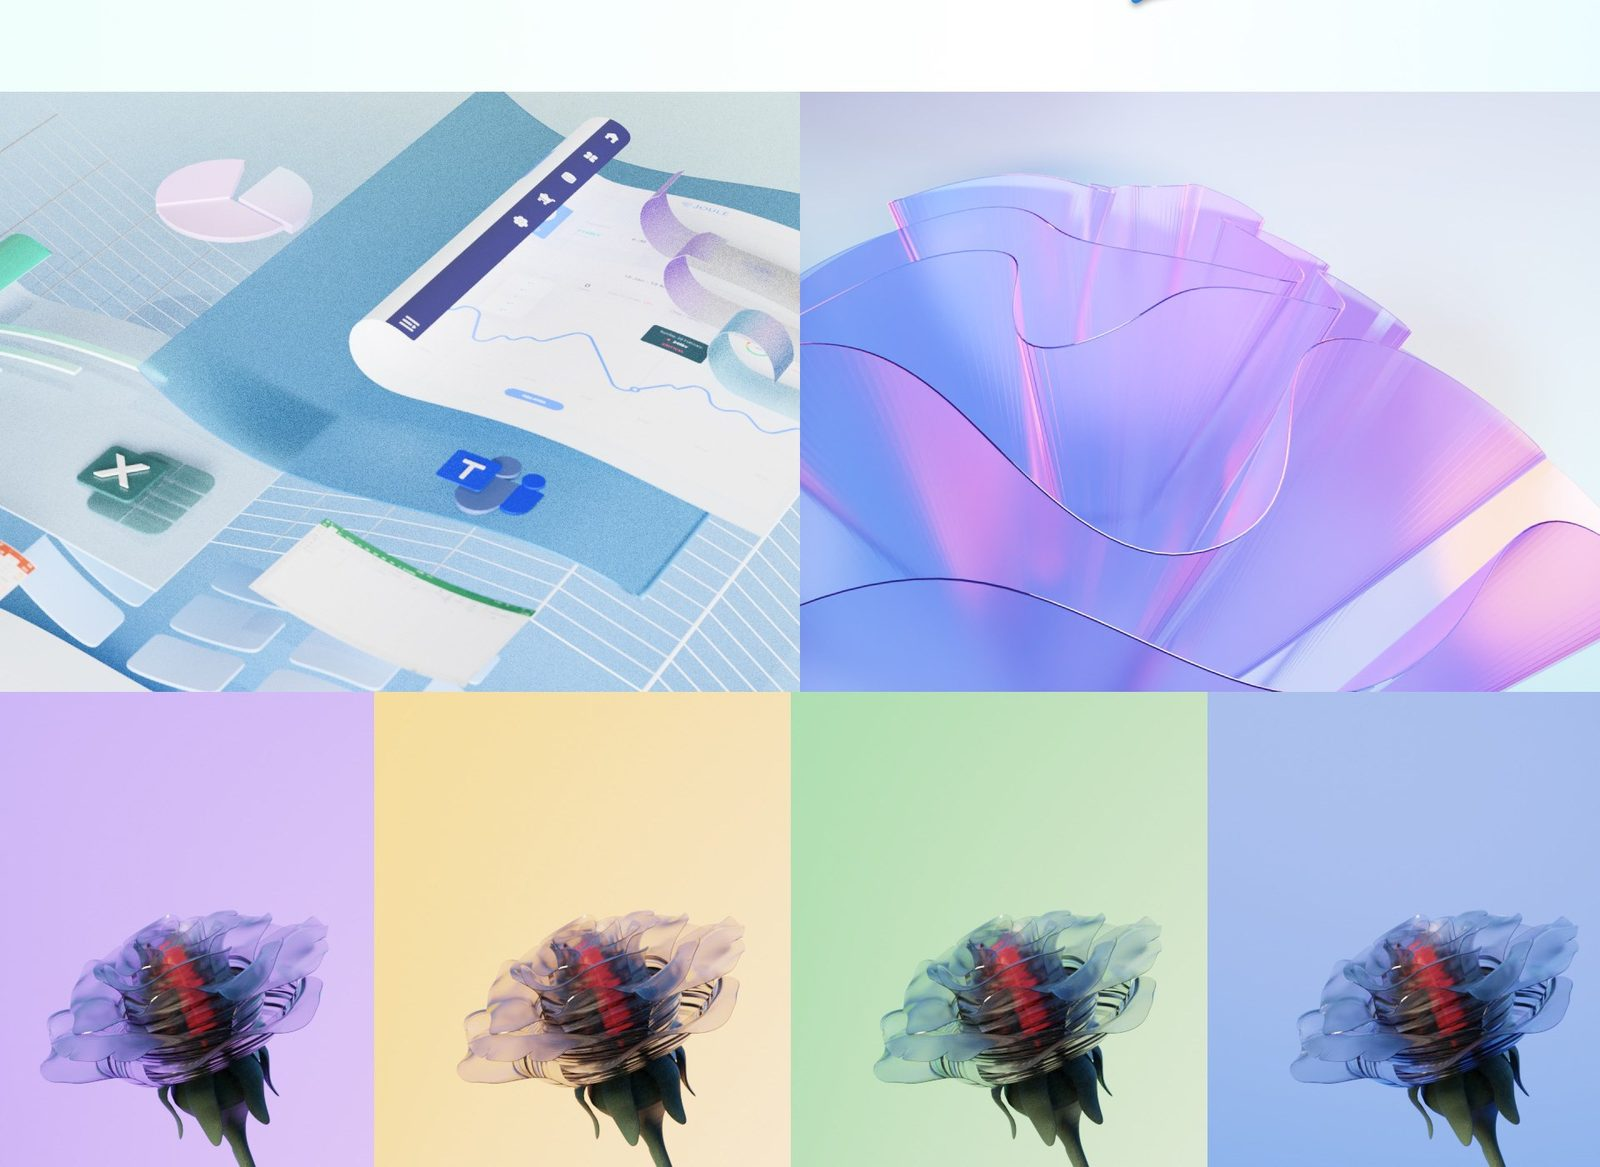
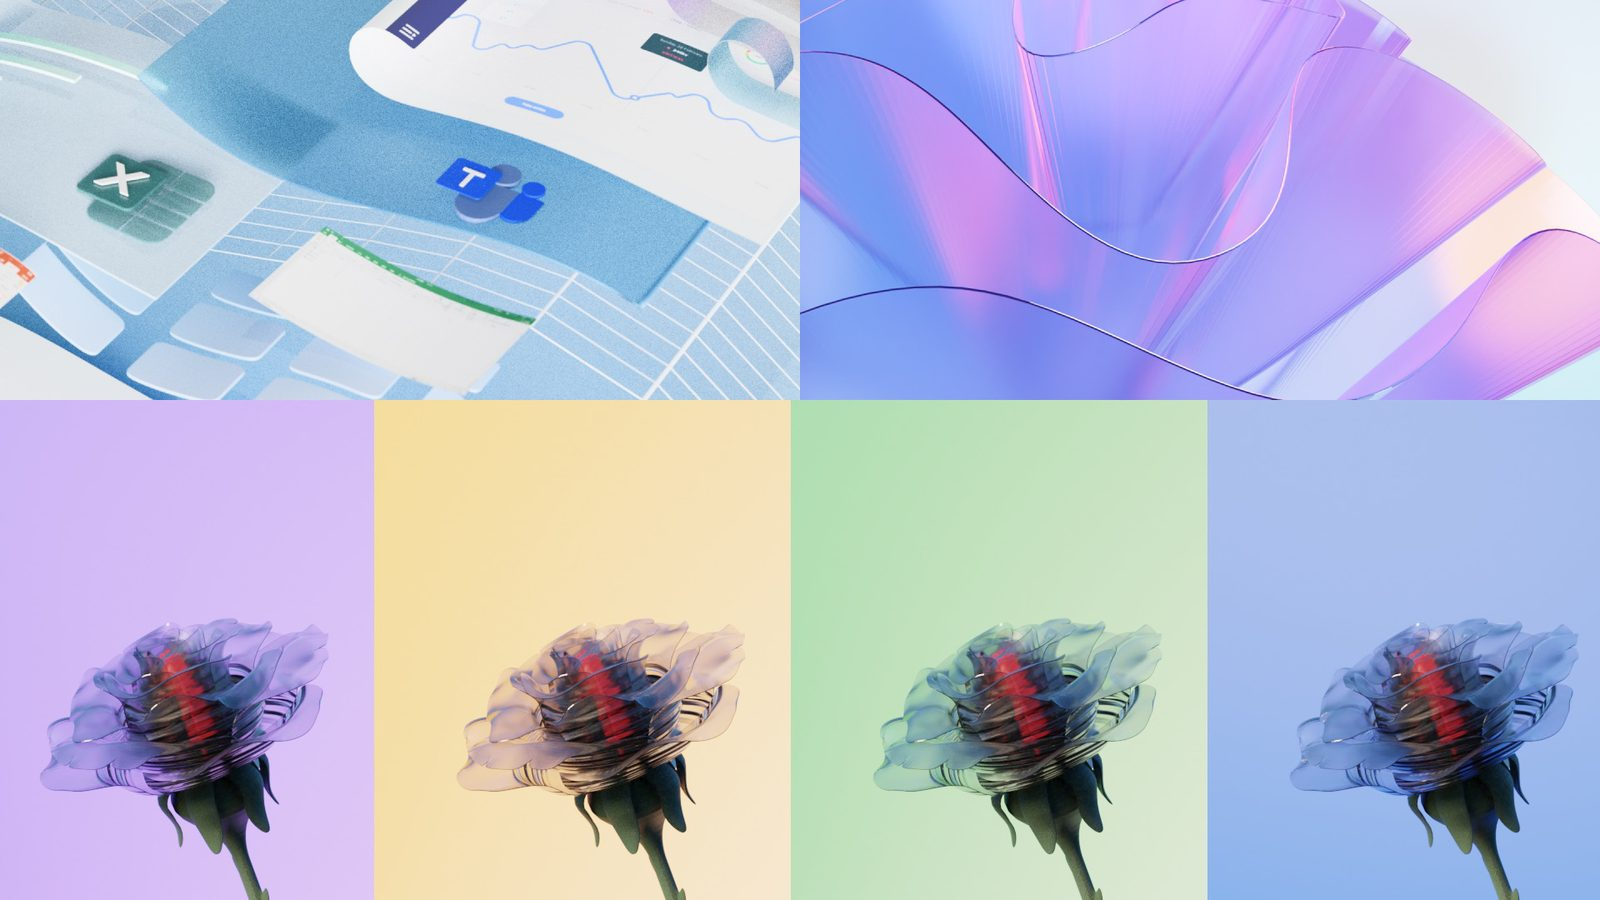
fix: 修正作品卡片裁切导致文字被截断
问题：卡片框是 3:2（1.5），而源图是 1920×1080 的 UI 截图（16:9 = 1.778）。
object-fit: cover 会把宽出的部分左右各裁掉约 9%，正好切在文字上——
设计系统卡片的 "Magic Design System 1.0" 变成了 "agic Design / ystem"，
"magiclab" 变成 "agiclab"。

修复
- .card__media 比例由 3/2 改为 16/9，与源图完全一致，不再产生任何裁切
- 重新裁切三张非 16:9 的卡片图，使六张统一为 1600×900：
  - work-agibot.jpg：取完整手机 + 引语 + #Overview 的 16:9 窗口
  - explore-3d.jpg：改为保留完整花束的窗口
  - work-lenovo.jpg：精确到 16:9

验证：六张卡片 boxRatio 与 imgRatio 均为 1.778，cropped 全部为 false。

diff --git a/styles.css b/styles.css
@@ -353,7 +353,11 @@ button { font: inherit; color: inherit; background: none; border: 0; cursor: poi
 .card__media {
   position: relative;
   width: 100%;
-  aspect-ratio: 3 / 2;
+  /* 必须与源图比例一致（1920×1080 的 UI 截图 = 16:9）。
+     之前用 3/2 配合 object-fit: cover，会把 16:9 的图左右各裁掉约 9%，
+     截断标题文字（如 "Magic Design System" 变成 "agic Design ystem"）。
+     换比例前先确认 assets/images/ 里六张图都是 1600×900。 */
+  aspect-ratio: 16 / 9;
   overflow: hidden;
   background: var(--gray-50);
 }
